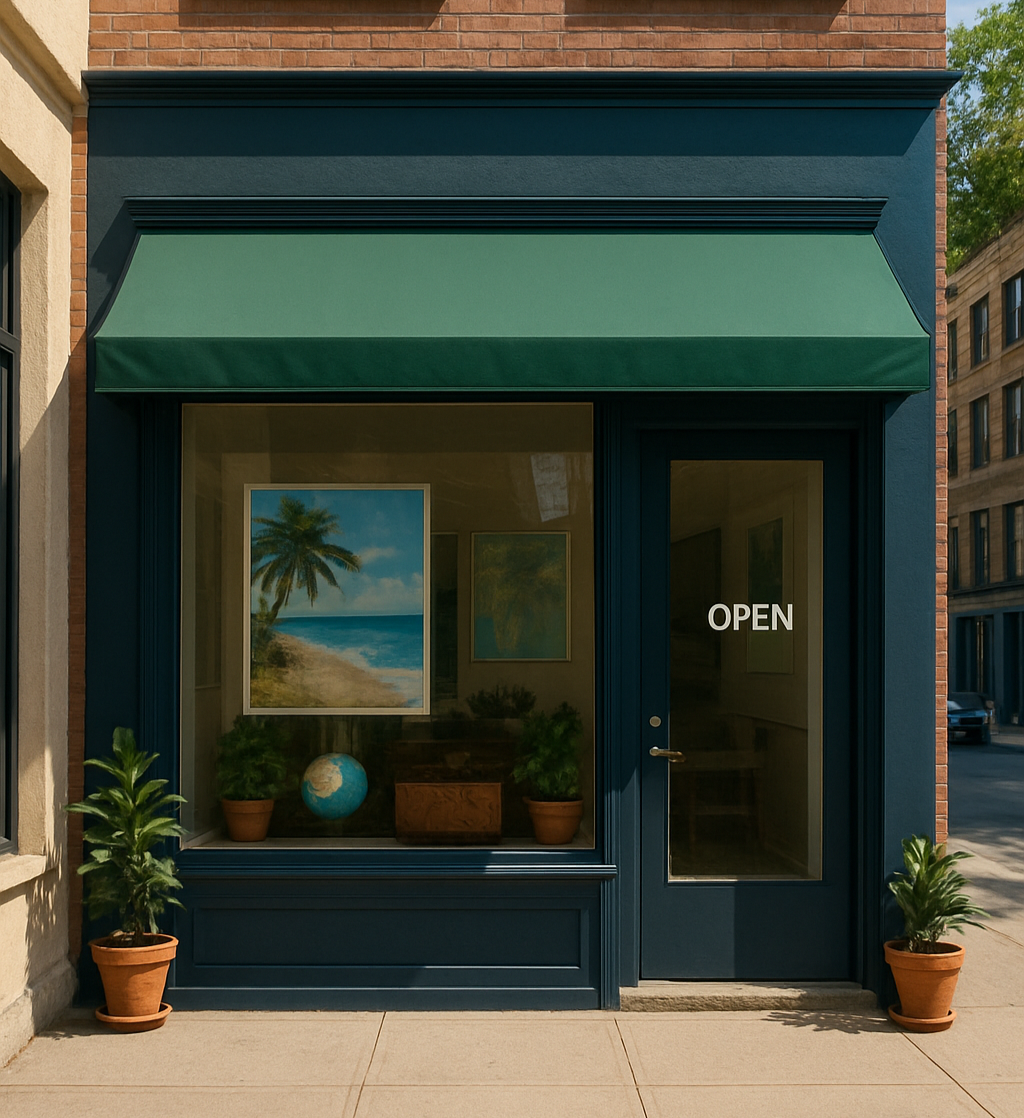
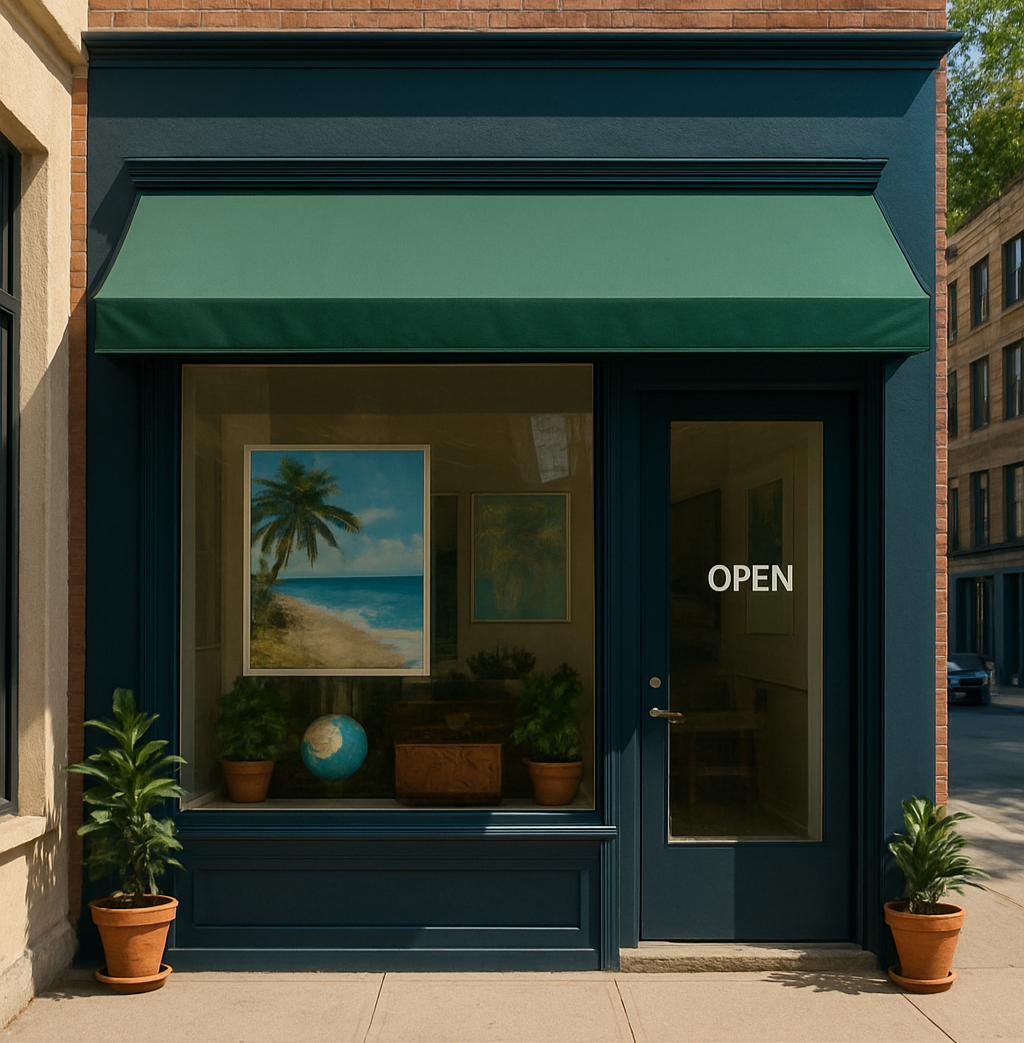
Footer adjustments and a little code cleanup

diff --git a/start.html b/start.html
@@ -17,10 +17,10 @@
       <div class="logo-search">
         <div class="logo">
           <a href="start.html">
-           <img src="img\logo-placeholder.png">
+           <img src="img/logo-placeholder.png">
           </a>
         </div>
-        <input [type="text"] class="search" placeholder="Sök">
+        <input type="text" name="Sök" placeholder="Sök" class="search">
       </div>
       <nav class="top-nav">
         <ul class="nav-links">
@@ -57,14 +57,27 @@
     </div>
     </main>
     <footer>
-      <ul>
-        <li><a href="/start.html">Start</a></li>
-        <li><a href="/products.html">Produkter</a></li>
-        <li><a href="/references.html">Referenser</a></li>
-        <li><a href="/about.html">Om oss</a></li>
-        <li><a href="/contact.html">Kontakt</a></li>
-      </ul>
-      <p>Copyright © Paketresor 2025</p>
+      <div class="footer-socials">
+        <ul>
+          <li><a target="_blank" href="https://www.instagram.com/"><img src="img/black-instagram-icon.png"></a></li>
+          <li><a target="_blank" href="https://www.facebook.com/?locale=sv_SE"><img src="img/facebook-square-black-icon.png"></a>
+          <li><a target="_blank" href="https://x.com/"><img src="img/x-social-media-black-icon.png"></a></li>
+          <li><a target="_blank" href="https://www.linkedin.com/"><img src="img/icons8-linkedin-50.png"></a></li>
+          <li><a target="_blank" href="https://www.youtube.com/"><img src="img/youtube-icon.png"></a></li>
+        </ul>
+      </div>
+      <div class="footer-links">
+        <ul>
+          <li><a href="/start.html">Start</a></li>
+          <li><a href="/products.html">Produkter</a></li>
+          <li><a href="/references.html">Referenser</a></li>
+          <li><a href="/about.html">Om oss</a></li>
+          <li><a href="/contact.html">Kontakt</a></li>
+        </ul>
+      </div>
+      <div class="footer-copyright">
+        <p>Copyright © Paketresor 2025</p>
+      </div>
     </footer>
 </body>
 </html>

diff --git a/about.html b/about.html
@@ -17,10 +17,10 @@
       <div class="logo-search">
         <div class="logo">
           <a href="start.html">
-            <img src="img\logo-placeholder.png">
+            <img src="img/logo-placeholder.png">
           </a>
         </div>
-        <input [type="text"] class="search" placeholder="Sök">
+        <input type="text" name="Sök" placeholder="Sök" class="search">
       </div>
       <nav class="top-nav">
         <ul class="nav-links">
@@ -179,14 +179,27 @@
         </div>
     </main>
     <footer>
+      <div class="footer-socials">
         <ul>
-            <li><a href="/start.html">Start</a></li>
-            <li><a href="/products.html">Produkter</a></li>
-            <li><a href="/references.html">Referenser</a></li>
-            <li><a href="/about.html">Om oss</a></li>
-            <li><a href="/contact.html">Kontakt</a></li>
+          <li><a target="_blank" href="https://www.instagram.com/"><img src="img/black-instagram-icon.png"></a></li>
+          <li><a target="_blank" href="https://www.facebook.com/?locale=sv_SE"><img src="img/facebook-square-black-icon.png"></a>
+          <li><a target="_blank" href="https://x.com/"><img src="img/x-social-media-black-icon.png"></a></li>
+          <li><a target="_blank" href="https://www.linkedin.com/"><img src="img/icons8-linkedin-50.png"></a></li>
+          <li><a target="_blank" href="https://www.youtube.com/"><img src="img/youtube-icon.png"></a></li>
         </ul>
+      </div>
+      <div class="footer-links">
+        <ul>
+          <li><a href="/start.html">Start</a></li>
+          <li><a href="/products.html">Produkter</a></li>
+          <li><a href="/references.html">Referenser</a></li>
+          <li><a href="/about.html">Om oss</a></li>
+          <li><a href="/contact.html">Kontakt</a></li>
+        </ul>
+      </div>
+      <div class="footer-copyright">
         <p>Copyright © Paketresor 2025</p>
+      </div>
     </footer>
 </body>
 </html>

diff --git a/products.html b/products.html
@@ -20,7 +20,7 @@
             <img src="img\logo-placeholder.png">
           </a>
         </div>
-        <input [type="text"] class="search" placeholder="Sök">
+        <input type="text" name="Sök" placeholder="Sök" class="search">
       </div>
       <nav class="top-nav">
         <ul class="nav-links">
@@ -36,14 +36,27 @@
 
     </main>
     <footer>
-      <ul>
-        <li><a href="/start.html">Start</a></li>
-        <li><a href="/products.html">Produkter</a></li>
-        <li><a href="/references.html">Referenser</a></li>
-        <li><a href="/about.html">Om oss</a></li>
-        <li><a href="/contact.html">Kontakt</a></li>
-      </ul>
-      <p>Copyright © Paketresor 2025</p>
+      <div class="footer-socials">
+        <ul>
+          <li><a target="_blank" href="https://www.instagram.com/"><img src="img/black-instagram-icon.png"></a></li>
+          <li><a target="_blank" href="https://www.facebook.com/?locale=sv_SE"><img src="img/facebook-square-black-icon.png"></a>
+          <li><a target="_blank" href="https://x.com/"><img src="img/x-social-media-black-icon.png"></a></li>
+          <li><a target="_blank" href="https://www.linkedin.com/"><img src="img/icons8-linkedin-50.png"></a></li>
+          <li><a target="_blank" href="https://www.youtube.com/"><img src="img/youtube-icon.png"></a></li>
+        </ul>
+      </div>
+      <div class="footer-links">
+        <ul>
+          <li><a href="/start.html">Start</a></li>
+          <li><a href="/products.html">Produkter</a></li>
+          <li><a href="/references.html">Referenser</a></li>
+          <li><a href="/about.html">Om oss</a></li>
+          <li><a href="/contact.html">Kontakt</a></li>
+        </ul>
+      </div>
+      <div class="footer-copyright">
+        <p>Copyright © Paketresor 2025</p>
+      </div>
     </footer>
 </body>
 </html>

diff --git a/references.html b/references.html
@@ -17,10 +17,10 @@
       <div class="logo-search">
         <div class="logo">
           <a href="start.html">
-           <img src="img\logo-placeholder.png">
+           <img src="img/logo-placeholder.png">
           </a>
         </div>
-        <input [type="text"] class="search" placeholder="Sök">
+        <input type="text" name="Sök" placeholder="Sök" class="search">
       </div>
       <nav class="top-nav">
         <ul class="nav-links">
@@ -100,14 +100,27 @@
             </div>
     </main>
     <footer>
-      <ul>
-        <li><a href="/start.html">Start</a></li>
+      <div class="footer-socials">
+        <ul>
+          <li><a target="_blank" href="https://www.instagram.com/"><img src="img/black-instagram-icon.png"></a></li>
+          <li><a target="_blank" href="https://www.facebook.com/?locale=sv_SE"><img src="img/facebook-square-black-icon.png"></a>
+          <li><a target="_blank" href="https://x.com/"><img src="img/x-social-media-black-icon.png"></a></li>
+          <li><a target="_blank" href="https://www.linkedin.com/"><img src="img/icons8-linkedin-50.png"></a></li>
+          <li><a target="_blank" href="https://www.youtube.com/"><img src="img/youtube-icon.png"></a></li>
+        </ul>
+      </div>
+      <div class="footer-links">
+        <ul>
+          <li><a href="/start.html">Start</a></li>
           <li><a href="/products.html">Produkter</a></li>
           <li><a href="/references.html">Referenser</a></li>
           <li><a href="/about.html">Om oss</a></li>
           <li><a href="/contact.html">Kontakt</a></li>
-      </ul>
-      <p>Copyright © Paketresor 2025</p>
+        </ul>
+      </div>
+      <div class="footer-copyright">
+        <p>Copyright © Paketresor 2025</p>
+      </div>
     </footer>
 </body>
 </html>

diff --git a/style.css b/style.css
@@ -81,7 +81,7 @@ header {
 }
 
 .top-nav a {
-    background-color: white;
+    background-color: #FFFFFF;
     height: 60px;
     width: 120px;
     text-decoration: none;
@@ -168,7 +168,7 @@ header {
 form {
     display: flex;
     flex-direction: column;
-    width: 400px;
+    width: 380px;
 }
 
 form input[type=text], form input[type=email], textarea, select {
@@ -232,7 +232,7 @@ input[type=submit]:hover {
     width: 970px;
     flex-direction: column;
     align-items: center;
-    padding: 20px;
+    padding: 80px;
     gap: 30px;
 }
 
@@ -251,6 +251,8 @@ input[type=submit]:hover {
 .business-image img {
     max-width: 400px;
 }
+
+
 
 h1 {
     font-size: 3em;

diff --git a/contact.html b/contact.html
@@ -17,10 +17,10 @@
       <div class="logo-search">
         <div class="logo">
           <a href="start.html">
-           <img src="img/logo-placeholder.png">
+            <img src="img/logo-placeholder.png">
           </a>
         </div>
-        <input type="text" placeholder="Sök" name="Sök" class="search">
+        <input type="text" name="Sök" placeholder="Sök" class="search">
       </div>
       <nav class="top-nav">
         <ul class="nav-links">
@@ -117,7 +117,6 @@
       <div class="footer-copyright">
         <p>Copyright © Paketresor 2025</p>
       </div>
-
     </footer>
 </body>
 </html>
